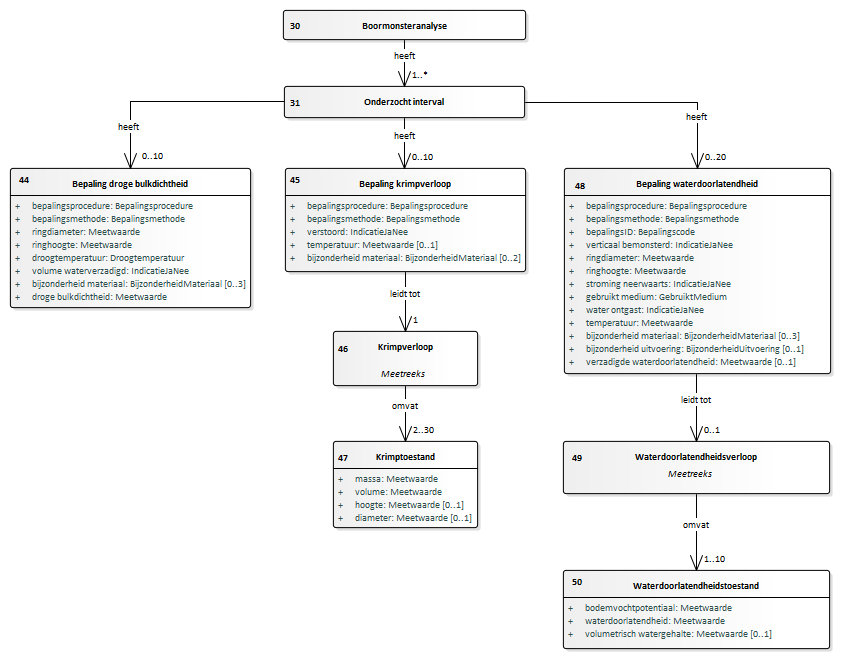
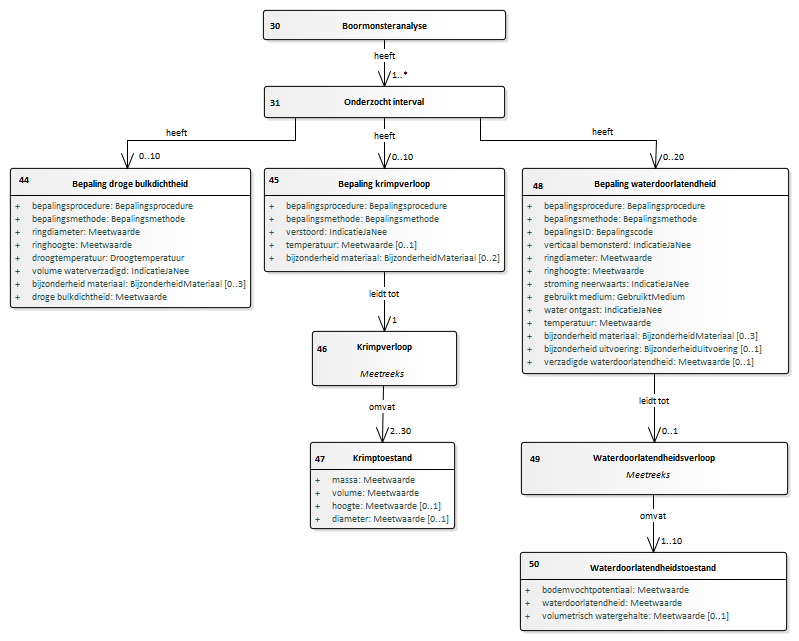
Conceptualmodel-BHR-Pconceptueel-MIM-1.9127november2019-1-20200214-20200324-104145

diff --git a/data/BHR-P-cat.msword.html b/data/BHR-P-cat.msword.html
@@ -13,7 +13,7 @@
    <body>
       <p>Conceptual model/BHR-P conceptueel - MIM/20200214</p>
       <p>Imvertor: 1.59.2</p>
-      <p>Model release: Conceptualmodel-BHR-Pconceptueel-MIM-1.9127november2019-1-20200214-20200324-102354</p>
+      <p>Model release: Conceptualmodel-BHR-Pconceptueel-MIM-1.9127november2019-1-20200214-20200324-104145</p>
       <hr>
       <section>
          <h1>Artikel 1 Definitie van registratieobject, entiteiten en attributen</h1>
@@ -121,27 +121,27 @@
                      <area shape="rect" alt="Onderzocht interval" coords="267,166,521,275" href="#graph_EAID_E03DABD7_D5A7_43b1_8E45_22FE722A3256"></map><p><b>Bodemkundige boormonsteranalyse deel 1</b></p>
                </div>
                <div class="imageinfo overview"><img src="Images/EAID_00029315_9461_4363_B7AC_4412C5E6439A.png" usemap="#imagemap-EAID_00029315_9461_4363_B7AC_4412C5E6439A" alt="Diagram "><map name="imagemap-EAID_00029315_9461_4363_B7AC_4412C5E6439A">
-                     <area shape="rect" alt="Waterdoorlatendheidstoestand" coords="563,570,830,649" href="#graph_EAID_DC02E36B_F1B5_4332_949C_95620F88CB8F">
-                     <area shape="rect" alt="Waterdoorlatendheidsverloop" coords="563,441,830,494" href="#graph_EAID_2FCF1E25_FE2E_4875_9941_5E318862B221">
-                     <area shape="rect" alt="Bepaling waterdoorlatendheid" coords="564,168,831,374" href="#graph_EAID_572E60DA_8CAF_4016_835C_BEB93802FF60">
+                     <area shape="rect" alt="Waterdoorlatendheidstoestand" coords="520,552,787,631" href="#graph_EAID_DC02E36B_F1B5_4332_949C_95620F88CB8F">
+                     <area shape="rect" alt="Waterdoorlatendheidsverloop" coords="521,442,788,495" href="#graph_EAID_2FCF1E25_FE2E_4875_9941_5E318862B221">
+                     <area shape="rect" alt="Bepaling waterdoorlatendheid" coords="522,168,789,374" href="#graph_EAID_572E60DA_8CAF_4016_835C_BEB93802FF60">
                      <area shape="rect" alt="Bepaling droge bulkdichtheid" coords="10,168,251,308" href="#graph_EAID_CBDC588E_E9CE_429c_AB74_08ED13292D32">
-                     <area shape="rect" alt="Krimptoestand" coords="333,441,478,528" href="#graph_EAID_C1956C67_A2FA_4817_880E_AFDFAF0EE4B4">
-                     <area shape="rect" alt="Krimpverloop" coords="333,331,478,386" href="#graph_EAID_3EB07C97_1626_4580_A461_10F4A6FC2324">
-                     <area shape="rect" alt="Bepaling krimpverloop" coords="285,168,526,272" href="#graph_EAID_B531AA18_409C_4b6d_BF4C_424B3B352278">
-                     <area shape="rect" alt="Onderzocht interval" coords="284,86,525,118" href="#graph_EAID_E03DABD7_D5A7_43b1_8E45_22FE722A3256">
-                     <area shape="rect" alt="Boormonsteranalyse" coords="283,10,526,40" href="#graph_EAID_C497D0C8_A7FC_4280_82C3_3C866CAA23AB"></map><p><b>Domeinmodel BRO Bodemkundige  boormonsteranalyse deel 2a</b></p>
+                     <area shape="rect" alt="Krimptoestand" coords="310,442,455,529" href="#graph_EAID_C1956C67_A2FA_4817_880E_AFDFAF0EE4B4">
+                     <area shape="rect" alt="Krimpverloop" coords="312,331,457,386" href="#graph_EAID_3EB07C97_1626_4580_A461_10F4A6FC2324">
+                     <area shape="rect" alt="Bepaling krimpverloop" coords="264,168,505,272" href="#graph_EAID_B531AA18_409C_4b6d_BF4C_424B3B352278">
+                     <area shape="rect" alt="Onderzocht interval" coords="264,86,505,118" href="#graph_EAID_E03DABD7_D5A7_43b1_8E45_22FE722A3256">
+                     <area shape="rect" alt="Boormonsteranalyse" coords="263,10,506,40" href="#graph_EAID_C497D0C8_A7FC_4280_82C3_3C866CAA23AB"></map><p><b>Domeinmodel BRO Bodemkundige  boormonsteranalyse deel 2a</b></p>
                </div>
                <div class="imageinfo overview"><img src="Images/EAID_CE320481_9F0A_4ab7_B678_33AE1565E3C7.png" usemap="#imagemap-EAID_CE320481_9F0A_4ab7_B678_33AE1565E3C7" alt="Diagram "><map name="imagemap-EAID_CE320481_9F0A_4ab7_B678_33AE1565E3C7">
-                     <area shape="rect" alt="Watergehalte en doorlatendheid bij bepaalde bodemvochtpotentiaal" coords="331,639,608,727" href="#graph_EAID_E396B552_D072_4cbd_A53D_CE28BF948F73">
-                     <area shape="rect" alt="Watergehalte en doorlatendheid bij een veranderende bodemvochtpotentiaal" coords="316,498,622,566" href="#graph_EAID_0CD81833_86C1_4dc8_9F2D_18E698F2B59F">
-                     <area shape="rect" alt="Waterretentiewaarde verdamping" coords="659,498,904,613" href="#graph_EAID_94C581FD_E79D_4f45_85BB_E72B98692E55">
-                     <area shape="rect" alt="Waterretentie verdamping" coords="727,390,908,453" href="#graph_EAID_0A90349F_5F19_454e_989D_08874F57FDFD">
-                     <area shape="rect" alt="Overzicht tensiometergegevens" coords="728,221,910,363" href="#graph_EAID_B005195A_6A9B_45e1_A42E_43A536E26CE3">
-                     <area shape="rect" alt="Bepaling watergehalte en doorlatendheid bij veranderende bodemvochtpotentiaal" coords="314,221,621,421" href="#graph_EAID_F723AF25_69F5_4641_9E9C_7965A8DCA679">
+                     <area shape="rect" alt="Watergehalte en doorlatendheid bij bepaalde bodemvochtpotentiaal" coords="316,638,593,726" href="#graph_EAID_E396B552_D072_4cbd_A53D_CE28BF948F73">
+                     <area shape="rect" alt="Watergehalte en doorlatendheid bij een veranderende bodemvochtpotentiaal" coords="302,490,608,558" href="#graph_EAID_0CD81833_86C1_4dc8_9F2D_18E698F2B59F">
+                     <area shape="rect" alt="Waterretentiewaarde verdamping" coords="628,490,880,605" href="#graph_EAID_94C581FD_E79D_4f45_85BB_E72B98692E55">
+                     <area shape="rect" alt="Waterretentie verdamping" coords="683,379,880,442" href="#graph_EAID_0A90349F_5F19_454e_989D_08874F57FDFD">
+                     <area shape="rect" alt="Overzicht tensiometergegevens" coords="683,211,879,353" href="#graph_EAID_B005195A_6A9B_45e1_A42E_43A536E26CE3">
+                     <area shape="rect" alt="Bepaling watergehalte en doorlatendheid bij veranderende bodemvochtpotentiaal" coords="301,211,608,411" href="#graph_EAID_F723AF25_69F5_4641_9E9C_7965A8DCA679">
                      <area shape="rect" alt="Waterretentiewaarde" coords="10,652,275,727" href="#graph_EAID_98116456_7428_494b_8847_F4238EDE247D">
                      <area shape="rect" alt="Waterretentie" coords="10,525,275,590" href="#graph_EAID_318E226C_39F0_4e94_BF68_FF86ADC7A4CB">
                      <area shape="rect" alt="Bepaling waterretentie stapsgewijs" coords="10,211,275,461" href="#graph_EAID_1B89AC72_862D_4faa_BB88_6A2F01273E9C">
-                     <area shape="rect" alt="Onderzocht interval" coords="169,116,399,148" href="#graph_EAID_E03DABD7_D5A7_43b1_8E45_22FE722A3256">
+                     <area shape="rect" alt="Onderzocht interval" coords="169,98,399,130" href="#graph_EAID_E03DABD7_D5A7_43b1_8E45_22FE722A3256">
                      <area shape="rect" alt="Boormonsteranalyse" coords="169,10,399,46" href="#graph_EAID_C497D0C8_A7FC_4280_82C3_3C866CAA23AB"></map><p><b>Domeinmodel BRO bodemkundige boormonsteranalyse deel 2b</b></p>
                </div>
                <div class="imageinfo overview"><img src="Images/EAID_B4B00F21_40F2_4133_BDED_18FBA68DE030.png" usemap="#imagemap-EAID_B4B00F21_40F2_4133_BDED_18FBA68DE030" alt="Diagram "><map name="imagemap-EAID_B4B00F21_40F2_4133_BDED_18FBA68DE030">
